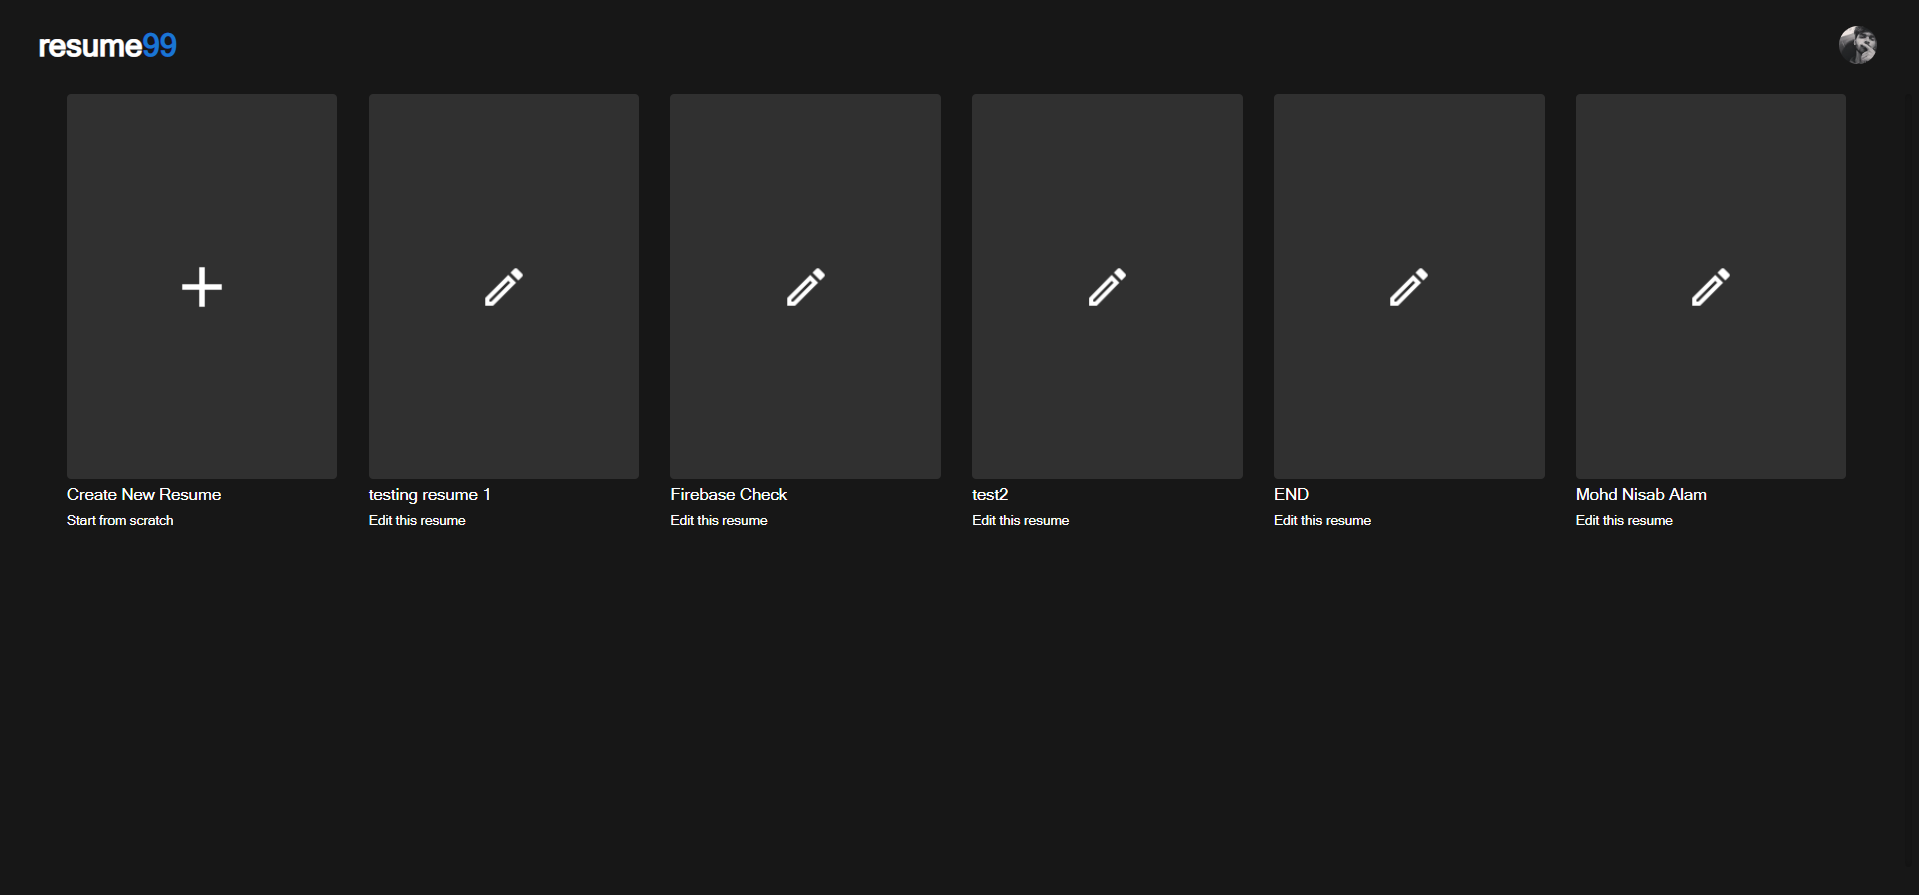
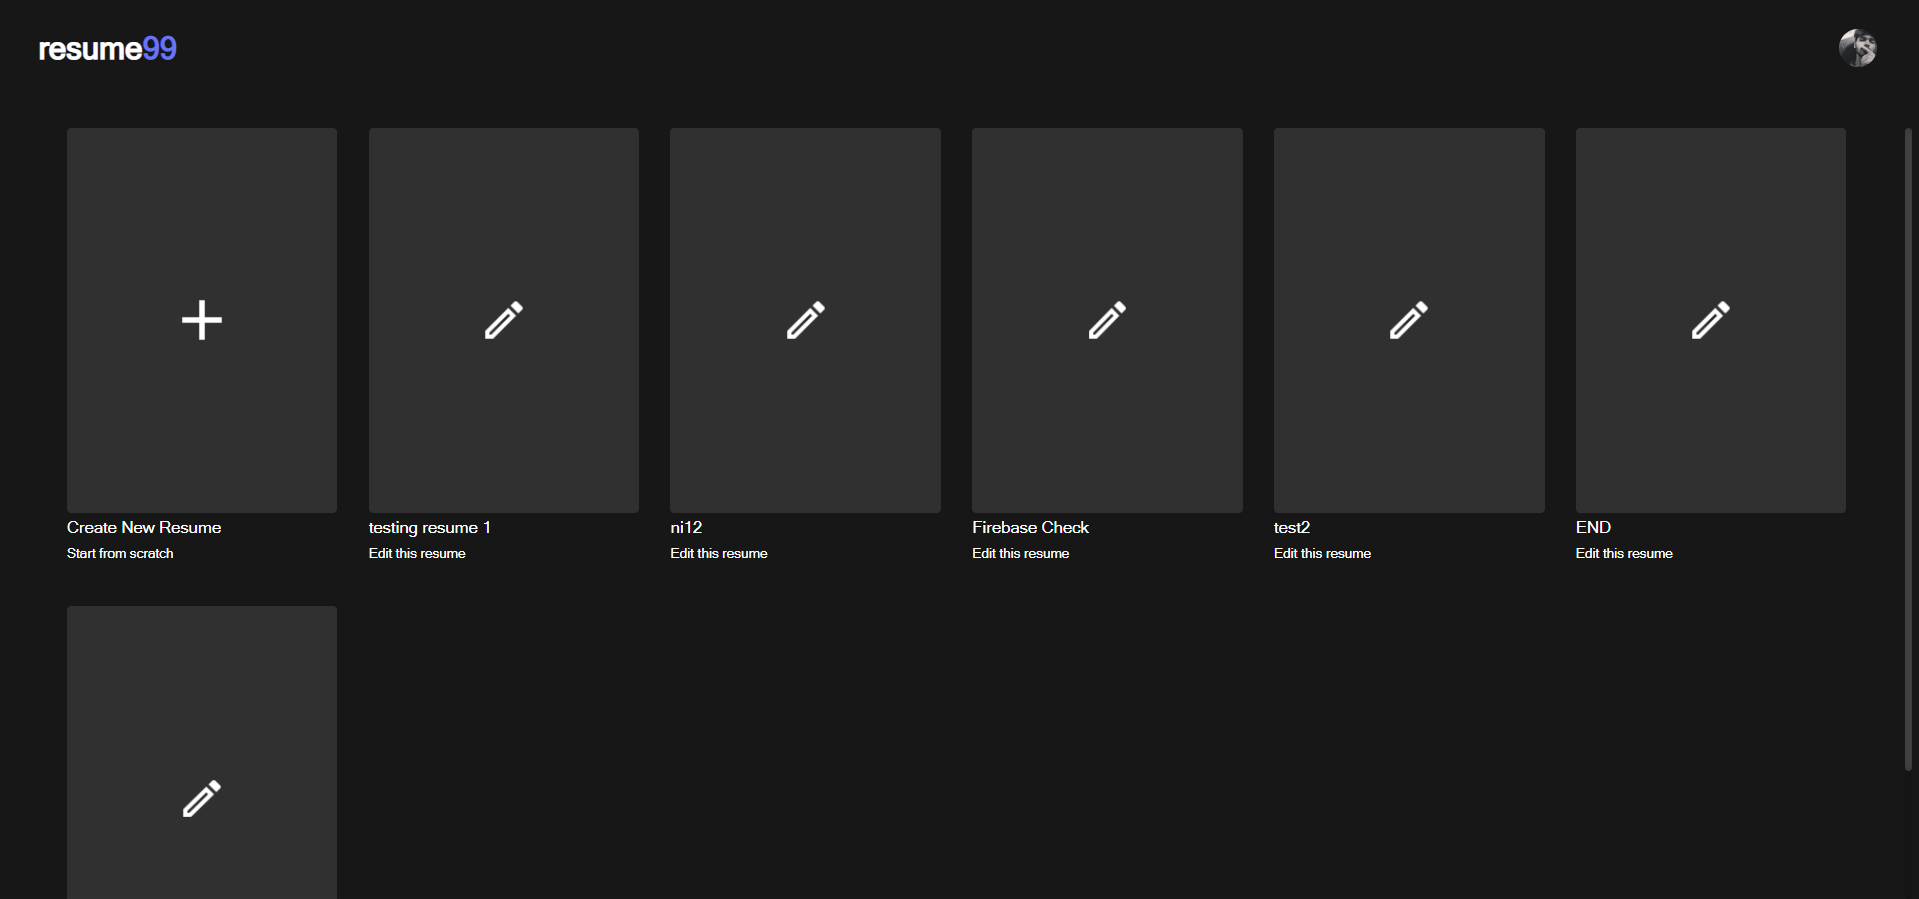
ui  tweak

diff --git a/src/Pages/Edit.js b/src/Pages/Edit.js
@@ -14,14 +14,14 @@ export const Edit = (props) => {
     return (
         <>
             <LoggedNav setuser={props.setuser} userimg={JSON.parse(localStorage.getItem('user')).photoURL}></LoggedNav>
-            <div style={{ display: 'flex', flexDirection: 'row', width: '91%', margin: 'auto' }}>
-                <div className="leftbar" style={{ flex: '0.9', height: '89vh', overflowY: 'scroll', border: '1px solid red' }}>
+            <div style={{ display: 'flex', flexDirection: 'row', width: '91%', margin: 'auto',marginTop:'29px' }}>
+                <div className="leftbar" style={{ flex: '0.9', height: '85vh', overflowY: 'scroll', border: '1px solid red' }}>
                     <Leftbar></Leftbar>
                 </div>
-                <div className="previewbar" style={{ flex: '2', height: '89vh', overflowY: 'scroll', border: '1px solid red' }}>
+                <div className="previewbar" style={{ flex: '2', height: '85vh', overflowY: 'scroll', border: '1px solid red' }}>
                     <Preview></Preview>
                 </div>
-                <div className="rightbar" style={{ flex: 0.9, height: '89vh', overflowY: 'scroll', border: '1px solid red' }}>
+                <div className="rightbar" style={{ flex: 0.9, height: '85vh', overflowY: 'scroll', border: '1px solid red' }}>
                     <Right></Right>
                 </div>
             </div>

diff --git a/src/App.js b/src/App.js
@@ -34,7 +34,7 @@ function App() {
                   <Home setuser={setUser}></Home> :
                   <div>
                     <LoggedNav setuser={setUser} userimg={user.photoURL}></LoggedNav>
-                    <div className="dasboard" style={{ display: 'flex', width: '98%',justifyContent:'center',alignItems:'center',marginLeft:'2.5vw'}}>
+                    <div className="dasboard" style={{ display: 'flex', width: '98%',justifyContent:'center',alignItems:'center',marginLeft:'2.5vw',paddingTop:'29px'}}>
                       <Dashboard></Dashboard>
                     </div>
                   </div>

diff --git a/src/components/LoggedNav.js b/src/components/LoggedNav.js
@@ -20,7 +20,7 @@ export const LoggedNav = (props) => {
 
     <div className='navbar' style={{ display: 'flex', flexDirection: 'row', alignItems: 'center', justifyContent: 'space-between', padding: '0 2vw' }}>
       <div className="logo">
-        <p style={{ fontWeight: '700', fontSize: '30px', color: 'white' }}>resume<span style={{ color: '#1976d2' }}>99</span></p>
+        <p style={{ fontWeight: '700', fontSize: '30px', color: 'white' }}>resume<span style={{ color: 'rgb(103,118,237)' }}>99</span></p>
       </div>
       <div className="tags">
         <div className="userlogo">
